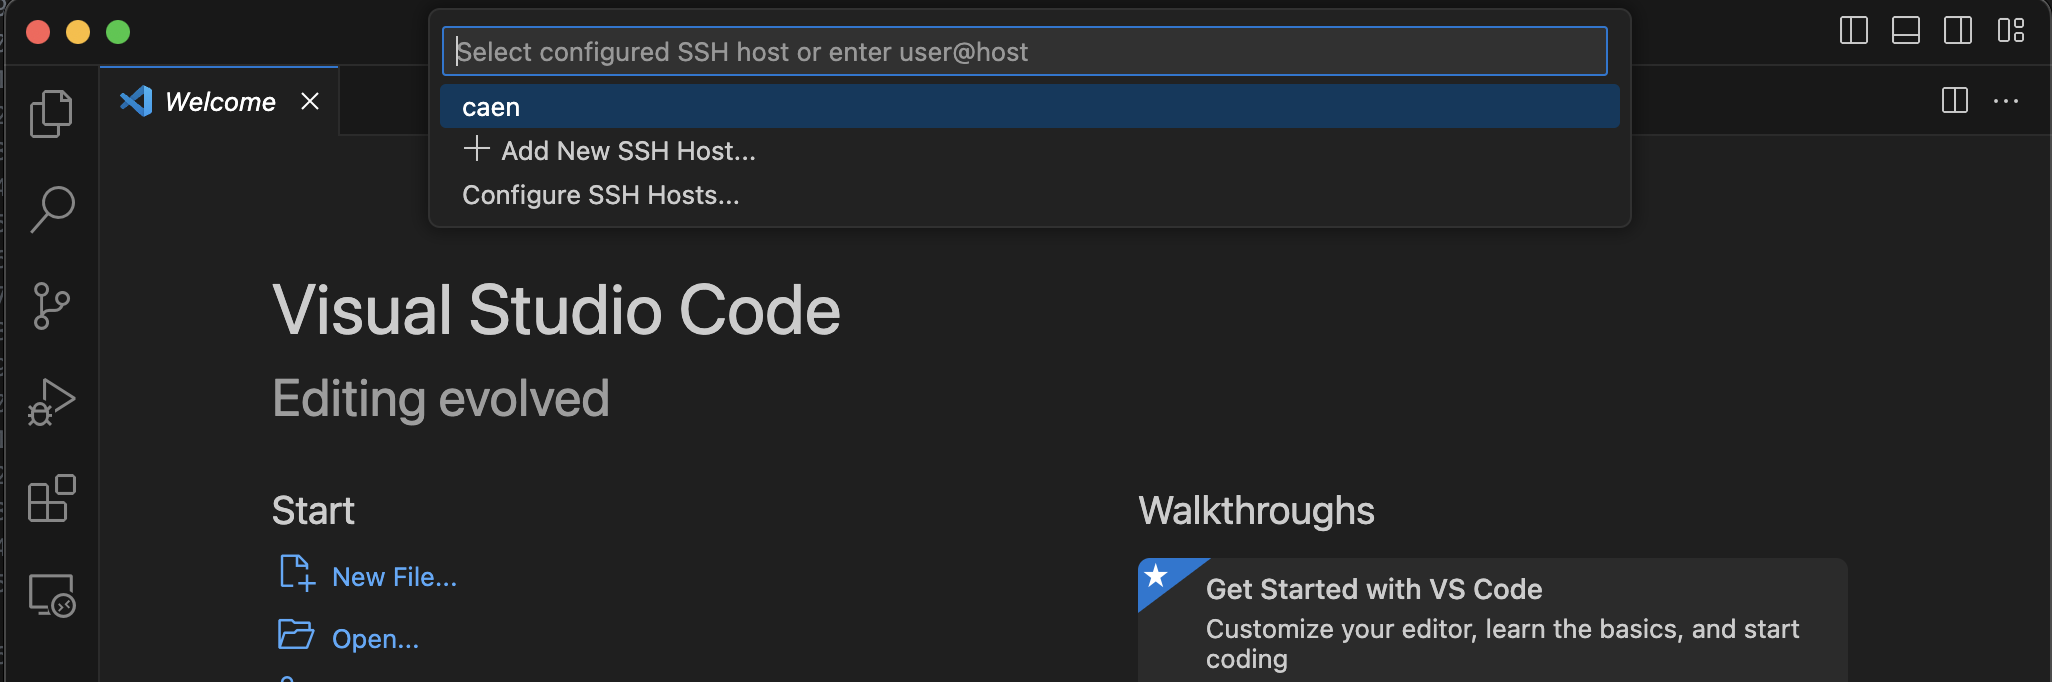
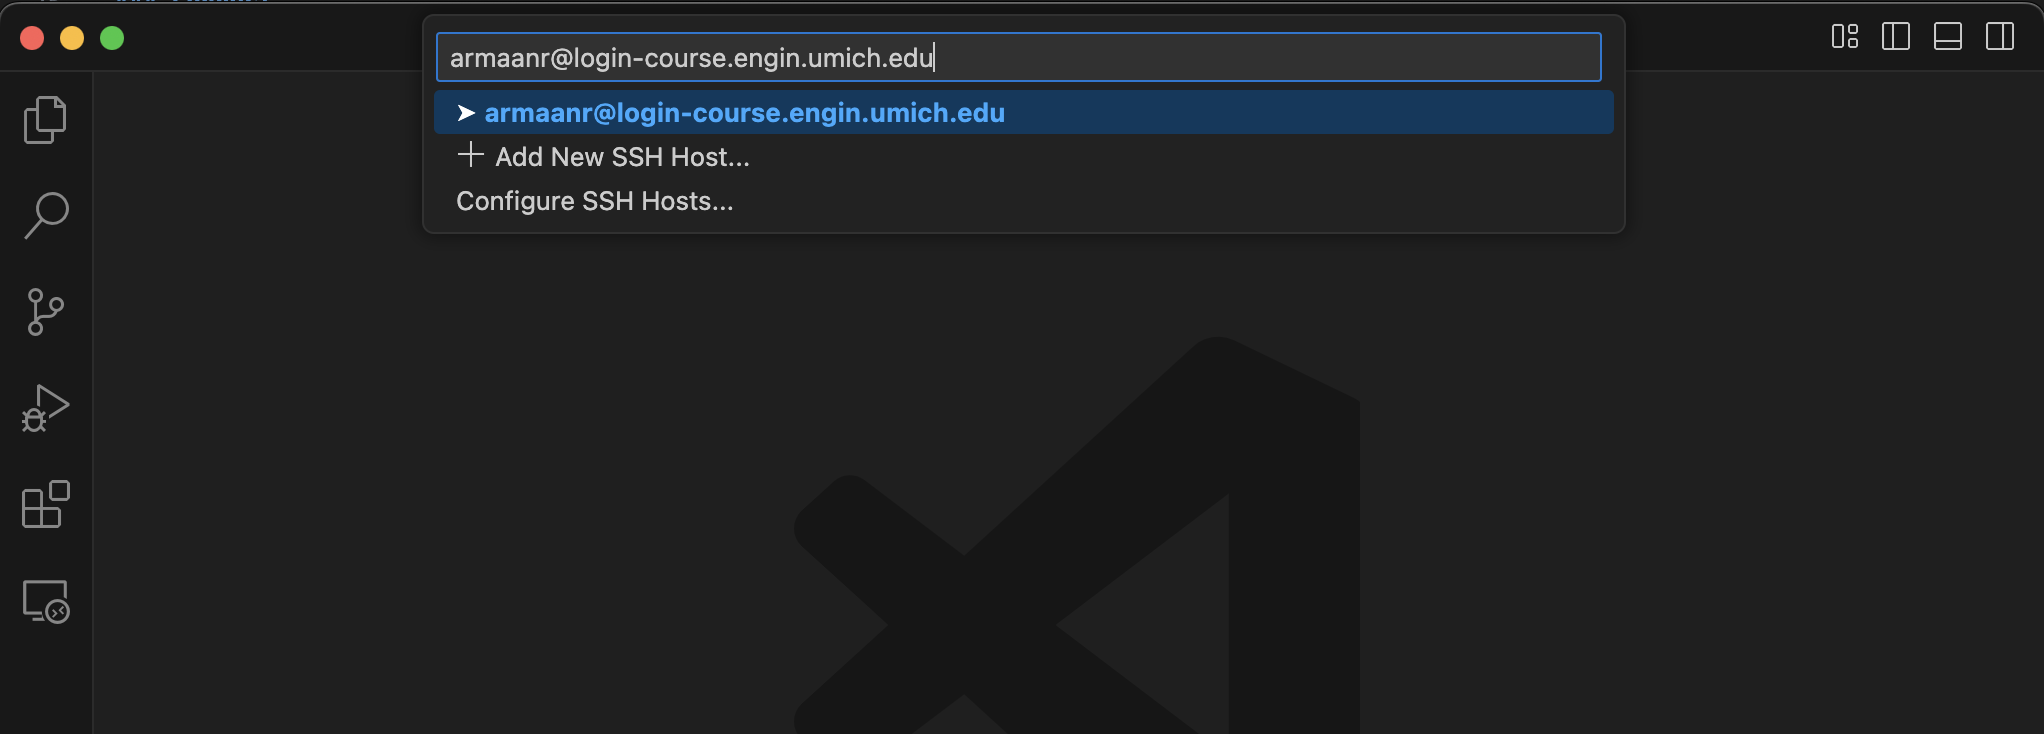
Disperse SSH config section into pro-tip/prereq

diff --git a/docs/setup_remotessh.md b/docs/setup_remotessh.md
@@ -11,7 +11,9 @@ This tutorial will show you how to use VS Code to remotely develop and test on C
 
 
 ## Prerequisites
-If you haven't already, follow the [CAEN Linux Tutorial](setup_caen.html) so your CAEN environment is ready for VS Code to access. If you need a refresher on VS code, read through the [tutorial](setup_vscode.html).
+If you haven't already, follow the [CAEN Linux Tutorial](setup_caen.html) to prepare your CAEN environment for VS Code access. Be sure to set up [SSH multiplexing](setup_caen.html#avoiding-repeated-2fa). This can help you avoid repeated 2FA prompts when connecting.
+
+If you need a refresher on VS code, read through the [tutorial](setup_vscode.html).
 
 
 <div class="primer-spec-callout warning" markdown="1">
@@ -20,41 +22,6 @@ If you haven't already, follow the [CAEN Linux Tutorial](setup_caen.html) so you
 
 ## Install and Configure Remote SSH Extension
 
-### Edit SSH Config
-First, we need to specify CAEN as a host in our SSH config file so VS Code knows where to connect. You can find the file at `~/.ssh/config`.
-
-Make sure you set up [SSH multiplexing](setup_caen.html#avoiding-repeated-2fa) from the CAEN Linux Tutorial if you haven't already. This can help you avoid repeated 2FA prompts when connecting.
-
-Add the following lines to the SSH config file, replacing `<uniqname>` with your own uniqname.
-```
-Host caen #(Can be named anything you like)
-  HostName login.engin.umich.edu
-  User <uniqname>
-```
-
-Verify the contents of your `~/.ssh/config` file.
-```console
-$ cat ~/.ssh/config
-# SSH multiplexing (from CAEN Linux Tutorial)
-Host *
-  ControlMaster auto
-  ControlPersist yes
-  ControlPath ~/.ssh/socket-%C
-  ServerAliveInterval 60
-  ServerAliveCountMax 5
-
-Host caen
-  HostName login.engin.umich.edu
-  User armaanr
-```
-
-<div class="primer-spec-callout info" markdown="1">
-**Pro-tip:** Adding hosts in this manner also gives you an easy way to SSH without needing to remember the hostname. For example:
-```console
-$ ssh caen
-(armaanr@login.engin.umich.edu) Password: 
-```
-</div>
 
 ### Install Extension
 Open up VS Code and install the [Remote - SSH Extension](https://aka.ms/vscode-remote/download/ssh).
@@ -84,20 +51,42 @@ Click the remote connection button on the bottom left and then click the "Connec
 
 <img src="images/remotessh_03.png" width="768px" />
 
-Click on the "caen" option (this is the SSH host that we set up [earlier](#edit-ssh-config)). 
-
-<div class="primer-spec-callout info" markdown="1">
-If you want to connect to some other host in the future, you can manually specify `user@host` in this box too (e.g. `armaanr@XXXXX.amazonaws.com`).
-</div>
+Type in `<uniqname>@login-course.engin.umich.edu` and hit <kbd>Enter</kbd>. 
 
 <img src="images/remotessh_04.png" width="768px" />
 
-Finally, you will be prompted for your CAEN password and Duo 2FA. The Duo 2FA prompt may be cut off. You can hover your mouse over the box and the full prompt will be shown.
+<div class="primer-spec-callout info" markdown="1">
+If you want to connect to some other host in the future, you can follow these steps with any `user@host` (e.g. `armaanr@XXXXX.amazonaws.com`).
+</div>
+
+<div class="primer-spec-callout info" markdown="1">
+**Pro-tip:** If you don't want to type this every single time, you can add the information to your SSH config file. You can find the file at `~/.ssh/config`.
+
+Add the following lines, replacing `<uniqname>` with your own uniqname.
+```
+Host caen
+  HostName login-course.engin.umich.edu
+  User <uniqname>
+```
+
+You should now be able to just click on the "caen" option.
+
+<img src="images/remotessh_12.png" width="768px" />
+
+As an added bonus, adding hosts in this manner also gives you an easy way to SSH when using the terminal. For example:
+```console
+$ ssh caen
+(armaanr@login-course.engin.umich.edu) Password: 
+```
+</div>
+
+
+Finally, you will be prompted for your CAEN password and Duo 2FA. The Duo 2FA prompt may be cut off, but it's the same one you usually see when using SSH in the terminal. You can hover your mouse over the box and the full prompt will be shown.
 
 <img src="images/remotessh_05.png" width="768px" />
 <img src="images/remotessh_06.png" width="768px" />
 
-Now, the button in the bottom left should say "SSH: caen" (or whatever host you specified earlier).
+Now, the button in the bottom left should say "SSH: login-course.engin.umich.edu" (or "SSH: caen" if you used the SSH config file).
 
 <img src="images/remotessh_07.png" width="768px" />
 
